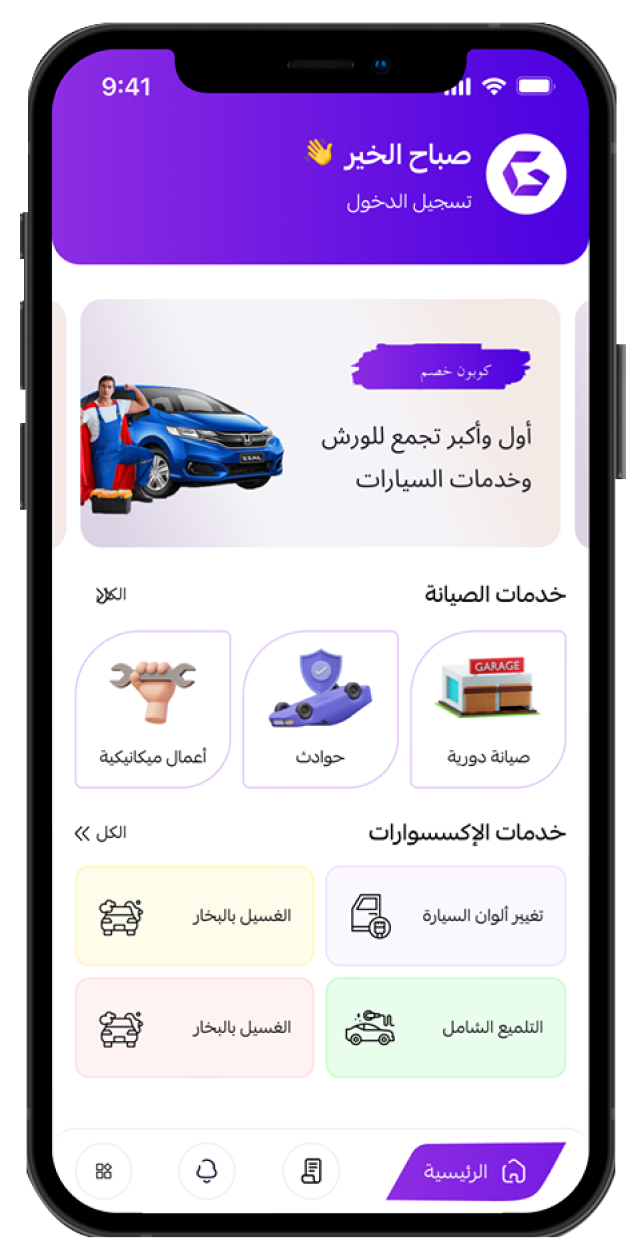
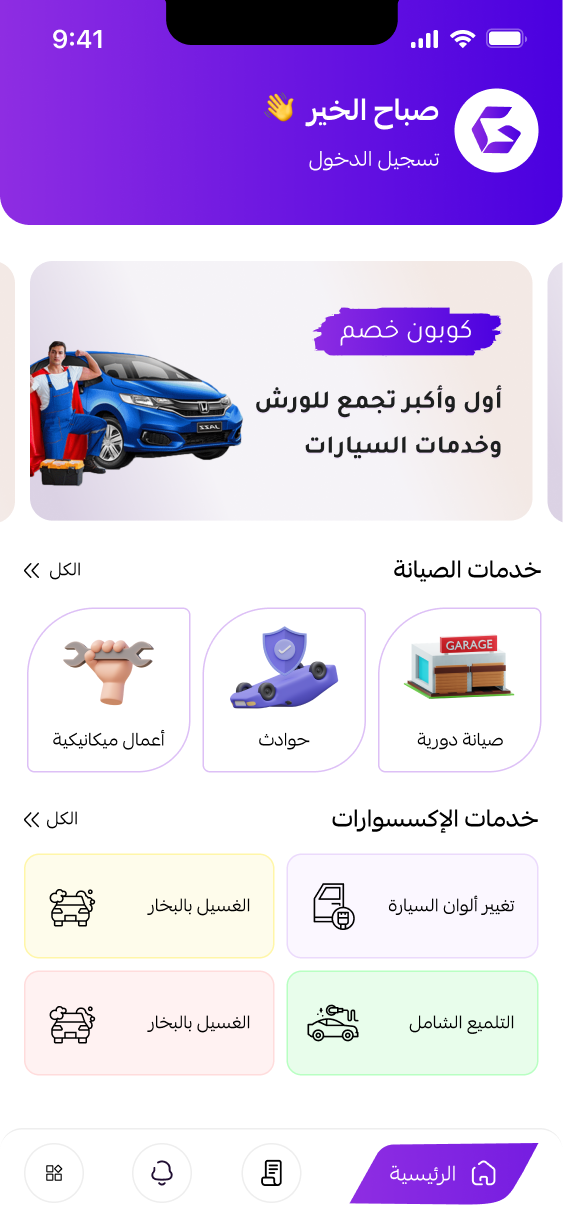
mockup

diff --git a/css/main.css b/css/main.css
@@ -297,7 +297,7 @@ html[dir=ltr] select {
 }
 .app-section .section-head {
   gap: 18px;
-  margin-bottom: 20px;
+  margin-bottom: 35px;
 }
 @media (max-width: 991px) {
   .section-head {
@@ -457,6 +457,7 @@ html[dir=ltr] .slider-content .swiper-btn i {
 }
 
 .app-section .slider-pagination.swiper-pagination-bullets {
+  margin-top: 45px;
   height: 12px;
 }
 .app-section .slider-pagination.swiper-pagination-bullets .swiper-pagination-bullet {
@@ -2043,6 +2044,7 @@ html[dir=ltr] .step-item .step-title {
   flex-direction: column;
   align-items: center;
   justify-content: center;
+  text-align: center;
   gap: 14px;
   padding: 14px;
   border-radius: 20px;
@@ -2083,21 +2085,74 @@ html[dir=ltr] .step-item .step-title {
   padding: 42px 0 61px;
   overflow: hidden;
 }
-@media (max-width: 1199px) {
-  .app-section .swiper {
-    overflow: unset;
-  }
+.app-section .swiper {
+  overflow: unset;
 }
 
-.app-slider .swiper-wrapper {
-  align-items: center;
+.app-slider .swiper-slide-active .screen-item {
+  box-shadow: none;
+  visibility: visible;
+  opacity: 1;
 }
-@media (min-width: 992px) {
-  .app-slider .swiper-slide {
-    width: 245px;
+.app-slider .swiper-slide-active .screen-img {
+  opacity: 1;
+  visibility: visible;
+  pointer-events: all;
+}
+.app-slider .swiper-slide-next .screen-item,
+.app-slider .swiper-slide-prev .screen-item {
+  visibility: visible;
+  opacity: 1;
+}
+.app-slider .swiper-slide-next .screen-img,
+.app-slider .swiper-slide-prev .screen-img {
+  opacity: 1;
+  visibility: visible;
+}
+@media (max-width: 1199px) {
+  .app-slider .swiper-slide-next .screen-img,
+  .app-slider .swiper-slide-prev .screen-img {
+    opacity: 0.5;
   }
-  .app-slider .swiper-slide.swiper-slide-active {
-    width: 319px;
+}
+.app-slider .swiper-slide-next + .swiper-slide .screen-item {
+  opacity: 1;
+  visibility: visible;
+  transform: translateX(75px);
+  z-index: 1;
+}
+html[dir=ltr] .app-slider .swiper-slide-next + .swiper-slide .screen-item {
+  transform: translateX(-75px);
+}
+@media (max-width: 991px) {
+  .app-slider .swiper-slide-next + .swiper-slide .screen-item {
+    transform: none;
+  }
+  html[dir=ltr] .app-slider .swiper-slide-next + .swiper-slide .screen-item {
+    transform: none;
+  }
+}
+.app-slider .swiper-slide:has(+ .swiper-slide-prev) .screen-item {
+  opacity: 1;
+  visibility: visible;
+  transform: translateX(-75px);
+  z-index: 1;
+}
+html[dir=ltr] .app-slider .swiper-slide:has(+ .swiper-slide-prev) .screen-item {
+  transform: translateX(75px);
+}
+@media (max-width: 991px) {
+  .app-slider .swiper-slide:has(+ .swiper-slide-prev) .screen-item {
+    transform: none;
+  }
+  html[dir=ltr] .app-slider .swiper-slide:has(+ .swiper-slide-prev) .screen-item {
+    transform: none;
+  }
+}
+@media (max-width: 480px) {
+  .app-slider {
+    width: 345px;
+    margin: 0 auto;
   }
 }
 
@@ -2107,7 +2162,10 @@ html[dir=ltr] .step-item .step-title {
   border-radius: 30px;
   background-color: #fdfdff;
   width: 100%;
-  transition: all 0.3s ease-in-out;
+  visibility: hidden;
+  opacity: 0;
+  position: relative;
+  z-index: 2;
 }
 .screen-item .screen-img {
   width: 100%;
@@ -2123,25 +2181,40 @@ html[dir=ltr] .step-item .step-title {
   -o-object-fit: cover;
      object-fit: cover;
 }
-@media (max-width: 991px) {
-  .screen-item .screen-img {
-    aspect-ratio: 319/622;
+@media (max-width: 767px) {
+  .screen-item {
+    border-radius: 20px;
   }
 }
-.swiper-slide-active .screen-item {
-  box-shadow: none;
-}
-.swiper-slide-active .screen-item .screen-img {
+
+.mockup {
+  position: absolute;
+  top: 50%;
+  left: 50%;
+  transform: translateY(-50%) translateX(-50%);
+  z-index: 9;
+  width: 285px;
   aspect-ratio: 319/622;
-  opacity: 1;
-  pointer-events: all;
+  pointer-events: none;
 }
-.swiper-slide-next .screen-item .screen-img, .swiper-slide-prev .screen-item .screen-img {
-  opacity: 1;
+@media (max-width: 1199px) {
+  .mockup {
+    width: 243px;
+  }
 }
 @media (max-width: 991px) {
-  .swiper-slide-next .screen-item .screen-img, .swiper-slide-prev .screen-item .screen-img {
-    opacity: 0.5;
+  .mockup {
+    width: 242px;
+  }
+}
+@media (max-width: 767px) {
+  .mockup {
+    width: 200px;
+  }
+}
+@media (max-width: 480px) {
+  .mockup {
+    width: 250px;
   }
 }
 

diff --git a/js/main.js b/js/main.js
@@ -128,35 +128,32 @@ $(document).ready(function () {
     },
     grabCursor: true,
     loop: true,
-    autoplay: {
-      delay: 3000,
-      disableOnInteraction: false,
-    },
+    // autoplay: {
+    //   delay: 3000,
+    //   disableOnInteraction: false,
+    // },
     centeredSlides: true,
     centeredSlidesBounds: true,
-    coverflowEffect: {
-      rotate: 0,
-      stretch: 5,
-      depth: 50,
-      modifier: 1.4,
-      slideShadows: false,
-    },
     breakpoints: {
       0: {
-        slidesPerView: 1.3,
-        spaceBetween: 10,
-        effect: false,
+        slidesPerView: 1.5,
+        spaceBetween: 20,
       },
-      400: {
-        slidesPerView: 2,
+      576: {
+        slidesPerView: 2.65,
+        spaceBetween: 20,
       },
-      767: {
+      768: {
         slidesPerView: 3,
+        spaceBetween: 20,
       },
       992: {
-        slidesPerView: "auto",
-        spaceBetween: 18,
-        effect: "coverflow",
+        slidesPerView: 4,
+        spaceBetween: 20,
+      },
+      1199: {
+        slidesPerView: 4.3,
+        spaceBetween: 25,
       },
     },
 

diff --git a/index-en.html b/index-en.html
@@ -448,6 +448,9 @@
             <div class="swiper-btn-next swiper-btn">
               <i class="fa-sharp fa-solid fa-angle-left"></i>
             </div>
+            <div class="mockup lazy-img-parent loading-img">
+              <img data-src="images/application/mockup.png" class="img-fluid lazy-img" />
+            </div>
           </div>
           <div class="slider-pagination"></div>
         </div>

diff --git a/index.html b/index.html
@@ -440,6 +440,9 @@
                 </div>
               </div>
             </div>
+            <div class="mockup lazy-img-parent loading-img">
+              <img data-src="images/application/mockup.png" class="img-fluid lazy-img" />
+            </div>
             <div class="swiper-btn-prev swiper-btn">
               <i class="fa-sharp fa-solid fa-angle-right"></i>
             </div>
